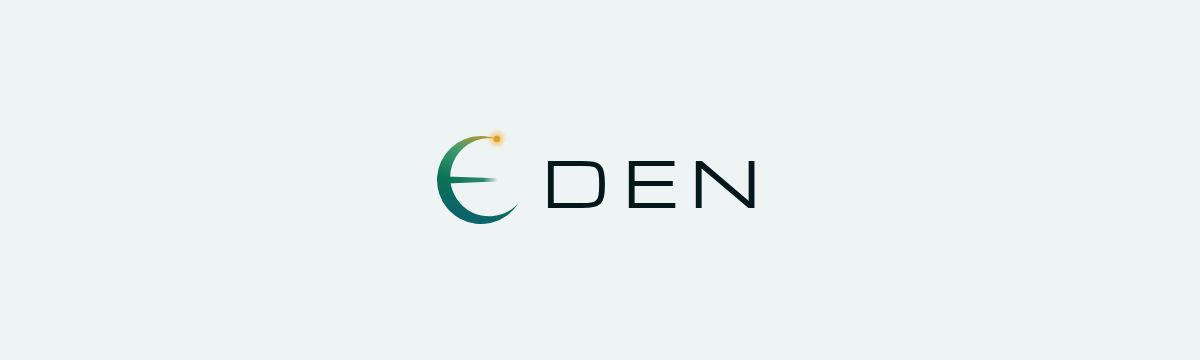
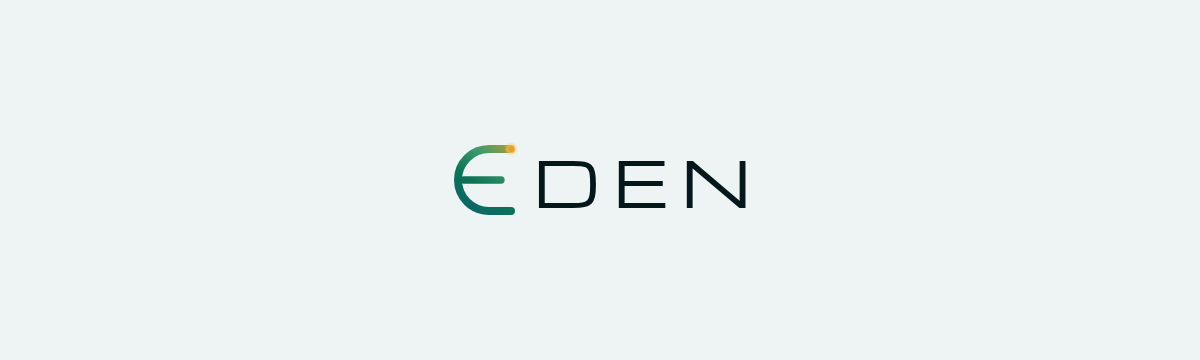
web: clearer Eden mark — a rounded E with a solid bar and gold dawn point
The crescent mark read as a moon at sidebar size and its fading bar hid the E.
The new mark is a rounded E with uniform strokes, a solid bar and the gold dawn
point at the top arm. The wordmark uses a lighter-stroke E sized to sit with
DEN; phones, the favicon, avatars and the token logo use the E on a dark orb.
All brand files (icons, wordmarks, X banner and avatar, token logo, share
image) are re-rendered from the one generator.

Changed region(s): [[0.3392, 0.3667, 0.6475, 0.6417]]

diff --git a/src/pages/Brand.tsx b/src/pages/Brand.tsx
@@ -5,9 +5,9 @@ type Asset = { file: string; label: string };
 
 const SYMBOLS: Array<Asset & { ground: "dark" | "light" }> = [
   { file: "eden-mark.svg", label: "Full colour", ground: "dark" },
+  { file: "eden-icon.svg", label: "Icon", ground: "dark" },
   { file: "eden-mark-flat.svg", label: "Flat", ground: "dark" },
   { file: "eden-mark-white.svg", label: "White", ground: "dark" },
-  { file: "eden-mark-mint.svg", label: "Mint", ground: "dark" },
   { file: "eden-mark-onlight.svg", label: "On light", ground: "light" },
   { file: "eden-mark-ink.svg", label: "Ink", ground: "light" },
 ];
@@ -42,8 +42,8 @@ export function Brand() {
         <a className="btn btn-quiet" href={B + "eden-mark.svg"} download>Download the logo</a></div>
 
       <section className="panel brand-hero" aria-label="Logo">
-        <div className="brand-lock"><img src={B + "eden-mark.svg"} alt="" /><b aria-hidden="true">DEN</b></div>
-        <p>The eclipse E: first light breaking over a new world. The crescent of light is the round of the E, the bar completes it, and the gold point is the first sunrise.</p>
+        <div className="brand-lock"><img src={B + "eden-mark-word.svg"} alt="" /><b aria-hidden="true">DEN</b></div>
+        <p>The Eden E: the round of a world, a bar of light across it, and a gold point where the first sunrise breaks.</p>
       </section>
 
       <section className="bk-sec" aria-labelledby="bk-symbol">
@@ -56,7 +56,7 @@ export function Brand() {
             </figure>
           ))}
         </div>
-        <p className="help">Use full colour on screens. Below 24 pixels, use the flat symbol. Use one colour only where colour is not possible.</p>
+        <p className="help">Use full colour on dark screens and the icon wherever the mark sits alone in a circle or square (favicon, avatars, token lists). Use one colour only where colour is not possible.</p>
       </section>
 
       <section className="bk-sec" aria-labelledby="bk-word">

diff --git a/src/styles/eden.css b/src/styles/eden.css
@@ -54,7 +54,8 @@ svg { flex: none; }
 
 /* shell */
 .side { position: fixed; inset: 0 auto 0 0; width: var(--side); display: flex; flex-direction: column; gap: 2px; padding: calc(22px + env(safe-area-inset-top, 0px)) 14px calc(18px + env(safe-area-inset-bottom, 0px)) max(14px, env(safe-area-inset-left, 0px)); border-right: 1px solid var(--rule); background: var(--bg); z-index: 5; }
-.brand { display: flex; align-items: center; gap: 1px; padding: 0 8px 28px; }
+.brand { display: flex; align-items: center; gap: 0; padding: 0 10px 28px; }
+.brand .mark { margin-right: -1px; }
 .brand b { font: 400 17px var(--mark); letter-spacing: .2em; }
 .mark { display: block; flex: none; } .mark.on-light { display: none; }
 :root[data-theme="light"] .mark.on-dark { display: none; } :root[data-theme="light"] .mark.on-light { display: block; }
@@ -352,7 +353,7 @@ details summary::-webkit-details-marker { display: none; }
 .brand-hero { display: grid; justify-items: center; gap: 22px; padding: 56px 24px; text-align: center; background: radial-gradient(ellipse at 50% 0%, #0f3a40, #04181c 70%); color: #eaf3f2; border-color: rgba(220, 245, 240, .1); }
 .brand-hero p { margin: 0; max-width: 56ch; color: #b9cfcf; }
 .brand-lock { display: flex; align-items: center; gap: 2px; }
-.brand-lock img { width: clamp(64px, 12vw, 104px); height: auto; aspect-ratio: 1; }
+.brand-lock img { width: clamp(56px, 10vw, 88px); height: auto; aspect-ratio: 1; margin-right: clamp(-10px, -1vw, -6px); }
 .brand-lock b { font: 400 clamp(32px, 6vw, 56px) var(--mark); letter-spacing: .22em; margin-right: -.22em; }
 .bk-sec { display: flex; flex-direction: column; gap: 16px; }
 .bk-sec .help { margin: 0; }

diff --git a/src/components/icons.tsx b/src/components/icons.tsx
@@ -27,10 +27,11 @@ export const I = {
   flip: (s = 16) => <svg {...base(s)} strokeWidth={1.8}><path d="M7 4v16M3 16l4 4 4-4M17 20V4M13 8l4-4 4 4" /></svg>,
 };
 
-/** Eden's eclipse E, served from public/brand. The light theme gets the deeper on-light version. */
-export function Mark({ size = 30 }: { size?: number }) {
+/** Eden's E. "word" sits with the DEN letters of the wordmark; "icon" is the E on its orb. Light themes get the deeper on-light file. */
+export function Mark({ size = 26, kind = "word" }: { size?: number; kind?: "word" | "icon" }) {
+  if (kind === "icon") return <img className="mark" src="/brand/eden-icon.svg" width={size} height={size} alt="" />;
   return <>
-    <img className="mark on-dark" src="/brand/eden-mark.svg" width={size} height={size} alt="" />
-    <img className="mark on-light" src="/brand/eden-mark-onlight.svg" width={size} height={size} alt="" />
+    <img className="mark on-dark" src="/brand/eden-mark-word.svg" width={size} height={size} alt="" />
+    <img className="mark on-light" src="/brand/eden-mark-word-onlight.svg" width={size} height={size} alt="" />
   </>;
 }

diff --git a/src/components/Shell.tsx b/src/components/Shell.tsx
@@ -129,7 +129,7 @@ export function Shell({ children, search, onSearch }: { children: ReactNode; sea
         <button className="nav" type="button" onClick={(e) => { e.stopPropagation(); setOpen(true); }}>{I.signin()}<span>{w.address ? short(w.address) : "Sign in"}</span></button>
       </nav>
       <header className="top">
-        <Link className="mbrand" to="/" aria-label="Eden home"><Mark size={30} /></Link>
+        <Link className="mbrand" to="/" aria-label="Eden home"><Mark size={32} kind="icon" /></Link>
         <label className="search" htmlFor="q">{I.search()}
           <input id="q" ref={searchRef} type="search" placeholder="Search name, ticker or address" autoComplete="off" value={search}
             onChange={(e) => { onSearch(e.target.value); if (path !== "/") navigate("/"); }} />
